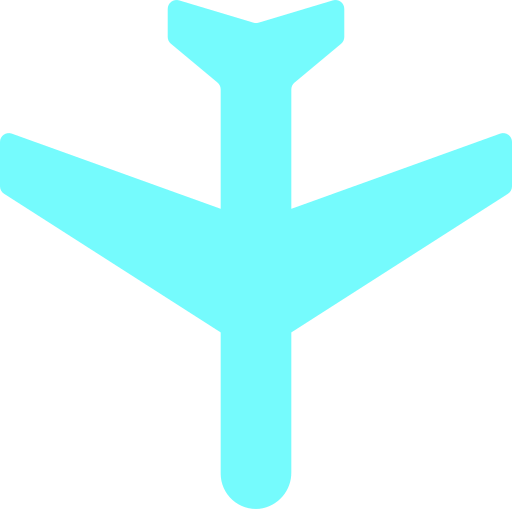
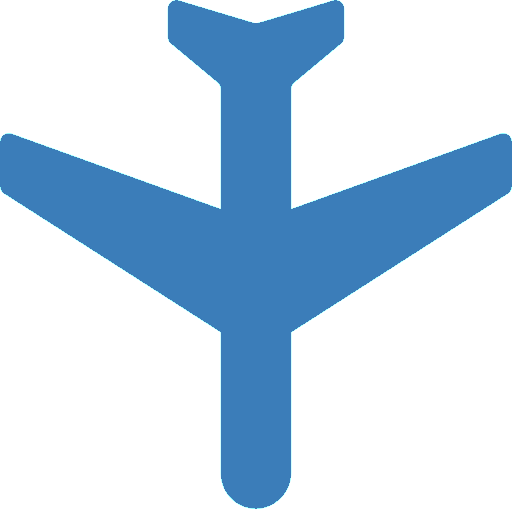
major bug fix and minor navbar fixes

diff --git a/ts/app/components/LightRays/page.jsx b/ts/app/components/LightRays/page.jsx
@@ -49,11 +49,13 @@ const LightRays = ({
   const containerRef = useRef(null);
   const uniformsRef = useRef(null);
   const rendererRef = useRef(null);
+  const loopRef = useRef(null);
   const mouseRef = useRef({ x: 0.5, y: 0.5 });
   const smoothMouseRef = useRef({ x: 0.5, y: 0.5 });
   const animationIdRef = useRef(null);
   const meshRef = useRef(null);
   const cleanupFunctionRef = useRef(null);
+  const isVisibleRef = useRef(false);
   const [isVisible, setIsVisible] = useState(false);
   const observerRef = useRef(null);
 
@@ -64,6 +66,7 @@ const LightRays = ({
       entries => {
         const entry = entries[0];
         setIsVisible(entry.isIntersecting);
+        isVisibleRef.current = entry.isIntersecting;
       },
       { threshold: 0.1 }
     );
@@ -79,13 +82,7 @@ const LightRays = ({
   }, []);
 
   useEffect(() => {
-    if (!isVisible || !containerRef.current) return;
-
-    if (cleanupFunctionRef.current) {
-      cleanupFunctionRef.current();
-      cleanupFunctionRef.current = null;
-    }
-
+    // Initialize WebGL once on mount and keep the canvas mounted.
     const initializeWebGL = async () => {
       if (!containerRef.current) return;
 
@@ -103,10 +100,13 @@ const LightRays = ({
       gl.canvas.style.width = '100%';
       gl.canvas.style.height = '100%';
 
-      while (containerRef.current.firstChild) {
-        containerRef.current.removeChild(containerRef.current.firstChild);
+      // If there's an existing canvas, don't remove it; otherwise append.
+      if (!containerRef.current.contains(gl.canvas)) {
+        while (containerRef.current.firstChild) {
+          containerRef.current.removeChild(containerRef.current.firstChild);
+        }
+        containerRef.current.appendChild(gl.canvas);
       }
-      containerRef.current.appendChild(gl.canvas);
 
       const vert = `
 attribute vec2 position;
@@ -277,6 +277,8 @@ void main() {
 
         try {
           renderer.render({ scene: mesh });
+          // schedule next frame only when running; the controller effect
+          // manages start/stop by cancelling/creating the RAF.
           animationIdRef.current = requestAnimationFrame(loop);
         } catch (error) {
           console.warn('WebGL rendering error:', error);
@@ -284,9 +286,15 @@ void main() {
         }
       };
 
+      // expose loop so other effects can start it when visible
+      loopRef.current = loop;
+
       window.addEventListener('resize', updatePlacement);
       updatePlacement();
-      animationIdRef.current = requestAnimationFrame(loop);
+      // start rendering only if currently visible
+      if (isVisibleRef.current) {
+        animationIdRef.current = requestAnimationFrame(loop);
+      }
 
       cleanupFunctionRef.current = () => {
         if (animationIdRef.current) {
@@ -303,7 +311,7 @@ void main() {
             if (loseContextExt) {
               loseContextExt.loseContext();
             }
-
+            // remove canvas only on full cleanup (unmount)
             if (canvas && canvas.parentNode) {
               canvas.parentNode.removeChild(canvas);
             }
@@ -316,31 +324,34 @@ void main() {
         uniformsRef.current = null;
         meshRef.current = null;
       };
-    };
+      };
 
-    initializeWebGL();
+      initializeWebGL();
 
-    return () => {
-      if (cleanupFunctionRef.current) {
-        cleanupFunctionRef.current();
-        cleanupFunctionRef.current = null;
+      return () => {
+        if (cleanupFunctionRef.current) {
+          cleanupFunctionRef.current();
+          cleanupFunctionRef.current = null;
+        }
+      };
+    }, []);
+
+  // Control rendering start/stop based on visibility without destroying canvas
+  useEffect(() => {
+    if (!loopRef.current) return;
+
+    if (isVisible) {
+      if (!animationIdRef.current) {
+        animationIdRef.current = requestAnimationFrame(loopRef.current);
       }
-    };
-  }, [
-    isVisible,
-    raysOrigin,
-    raysColor,
-    raysSpeed,
-    lightSpread,
-    rayLength,
-    pulsating,
-    fadeDistance,
-    saturation,
-    followMouse,
-    mouseInfluence,
-    noiseAmount,
-    distortion
-  ]);
+    } else {
+      if (animationIdRef.current) {
+        cancelAnimationFrame(animationIdRef.current);
+        animationIdRef.current = null;
+      }
+    }
+    // no cleanup here; canvas lifetime handled by mount effect
+  }, [isVisible]);
 
   useEffect(() => {
     if (!uniformsRef.current || !containerRef.current || !rendererRef.current) return;

diff --git a/ts/app/components/navbar/navbar.jsx b/ts/app/components/navbar/navbar.jsx
@@ -8,31 +8,26 @@ const navItems = [
   {
     name: "Home",
     icon: "/home.svg",
-    iconLight: "/light/home_light.svg",
     href: "/",
   },
   {
     name: "Our Teams",
     icon: "/team.svg",
-    iconLight: "/light/team_light.svg",
     href: "/teamR",
   },
   {
     name: "Milestones",
     icon: "/milestone.svg",
-    iconLight: "/light/milestone_light.svg",
     href: "/milestones",
   },
   {
-    name: "Competitions",
-    icon: "/newsletter.svg",
-    iconLight: "/light/newsletter_light.svg",
-    href: "/newsletter",
+    name: "Gallery",
+    icon: "/gallery.svg",
+    href: "/gallery",
   },
   {
     name: "Sponsor Us",
     icon: "/sponsor.svg",
-    iconLight: "/light/sponsor_light.svg",
     href: "/sponsor",
   },
 ];
@@ -40,20 +35,12 @@ const navItems = [
 const Navbar = () => {
   const pathname = usePathname() || "/";
   const [hovered, setHovered] = useState(null);
-  const [mode, setMode] = useState("dark");
-  const [showNightGif, setShowNightGif] = useState(false);
 
   React.useEffect(() => {
     setHovered(null);
   }, [pathname]);
 
-  const handleToggle = () => {
-    if (mode === "light") {
-      setShowNightGif(true);
-      setTimeout(() => setShowNightGif(false), 1200);
-    }
-    setMode(mode === "dark" ? "light" : "dark");
-  };
+  // Light-mode toggle removed: navbar is dark-only
 
   return (
     <nav className="navbar-container">
@@ -61,39 +48,10 @@ const Navbar = () => {
         <NextImage src="/logo.png" alt="Logo" width={60} height={32} />
       </div>
       <ul className="navbar-list">
-        <li className="navbar-toggle">
-          <button
-            className="toggle-switch"
-            onClick={handleToggle}
-            aria-label="Toggle dark/light mode"
-          >
-            <span className={`switch-track ${mode}`}></span>
-            <span className={`switch-thumb ${mode}`}>
-              {mode === "dark" ? (
-                <NextImage
-                  src="/dark/half-moon.png"
-                  alt="Moon"
-                  width={20}
-                  height={20}
-                />
-              ) : (
-                <NextImage
-                  src="/light/sun.png"
-                  alt="Sun"
-                  width={20}
-                  height={20}
-                />
-              )}
-            </span>
-          </button>
-        </li>
         {navItems.map((item) => {
           const isActive = pathname === item.href;
           const isHovered = hovered === item.name;
-          const pillColor =
-            mode === "dark"
-              ? "rgba(59, 130, 246, 0.25)"
-              : "rgba(255,255,255,0.5)";
+          const pillColor = "rgba(59, 130, 246, 0.25)";
           const showPill = isActive || isHovered;
           const iconWidth = 22;
           const labelWidth = item.name.length * 8;
@@ -148,12 +106,7 @@ const Navbar = () => {
                 }}
               >
                 <span className="navbar-icon">
-                  <NextImage
-                    src={mode === "dark" ? item.icon : item.iconLight}
-                    alt={item.name + " icon"}
-                    width={22}
-                    height={22}
-                  />
+                  <NextImage src={item.icon} alt={item.name + " icon"} width={22} height={22} />
                 </span>
                 <span
                   className={`navbar-text${showPill ? " show" : ""}`}
@@ -220,18 +173,11 @@ const Navbar = () => {
           justify-content: center;
           overflow: hidden;
         }
-        .switch-thumb.light {
-          background: transparent;
-          transform: translateY(-50%) translateX(0);
-        }
         .switch-thumb.dark {
           background: transparent;
           transform: translateY(-50%) translateX(24px);
         }
         .navbar-container.dark {
-          background: transparent;
-        }
-        .navbar-container.light {
           background: transparent;
         }
         .navbar-logo {
@@ -255,7 +201,7 @@ const Navbar = () => {
           border: none;
           font-size: 1.5rem;
           cursor: pointer;
-          color: ${mode === "dark" ? "#fff" : "#222"};
+          color: #fff;
           transition: color 0.2s;
         }
         .navbar-item {
@@ -290,7 +236,7 @@ const Navbar = () => {
           padding: 0.5rem 1rem;
           border-radius: 2rem;
           background: transparent;
-          color: ${mode === "light" ? "#111" : "#2ad4ff"};
+          color: #2ad4ff;
           font-weight: 500;
           transition: background 0.2s, color 0.2s;
         }
@@ -312,14 +258,14 @@ const Navbar = () => {
           overflow: hidden;
           white-space: nowrap;
           margin-left: 0.5rem;
-          color: ${mode === "light" ? "#111" : "#75FBFD"};
+          color: #75FBFD;
           transition: max-width 0.4s cubic-bezier(0.77, 0, 0.18, 1),
             opacity 0.3s;
         }
         .navbar-text.show {
           max-width: 120px;
           opacity: 1;
-          color: ${mode === "light" ? "#111" : "#75FBFD"};
+          color: #75FBFD;
         }
       `}</style>
     </nav>

diff --git a/ts/app/components/scrollbar/scrollplane.module.css b/ts/app/components/scrollbar/scrollplane.module.css
@@ -33,7 +33,7 @@
   transform:translateX(-50%);
   width:4px;
   top:6px;
-  background:linear-gradient(180deg, rgba(117,251,253,0.95), rgba(117,251,253,0.14));
+  background: linear-gradient(180deg, rgba(59,130,185,0.14), rgba(59,130,185,0.95));
   border-radius:2px;
   box-shadow:0 8px 18px rgba(117,251,253,0.12);
   /* height driven by CSS variable set by React */
@@ -64,6 +64,8 @@
   filter:drop-shadow(0 6px 12px rgba(0,0,0,0.35));
   /* keep the plane visually centered on its container; no rotation */
   transform: translateY(0);
+  /* slight opacity so the plane sits subtly over content */
+  opacity: 1;
   /* no transform transition needed since we no longer rotate */
 }
 